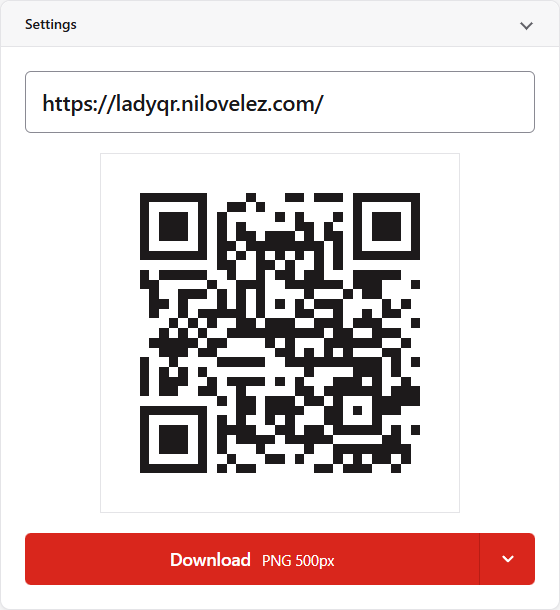
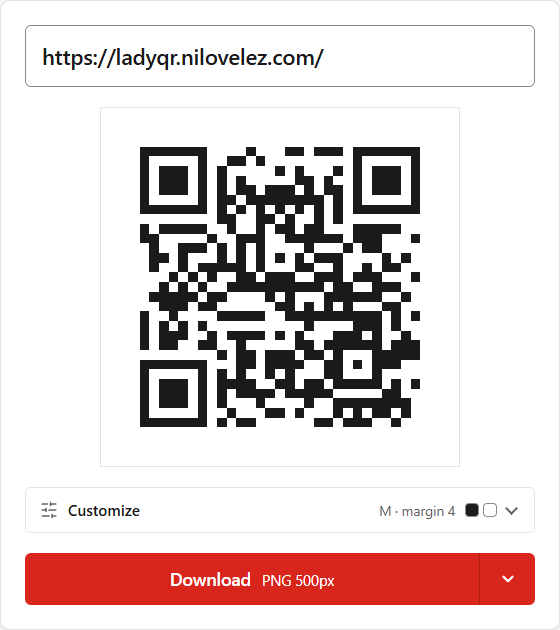
Bring the website, the README and the status up to date with M7
The website's roadmap, install steps and editor screenshot match 1.0.0
and the new M7; the README's roadmap names M7. Status updated in Guppy.

diff --git a/site/index.html b/site/index.html
@@ -66,7 +66,7 @@
 			</li>
 			<li>
 				<h3>Small and dependency-free</h3>
-				<p>It has its own QR encoder, with no libraries and no build step. PHP only generates the page, so it runs on the cheapest shared hosting.</p>
+				<p>It has its own QR encoder, with no libraries and no build step. PHP only generates the page and answers the short links, so it runs on the cheapest shared hosting.</p>
 			</li>
 			<li>
 				<h3>Accessible and translatable</h3>
@@ -77,9 +77,9 @@
 
 	<section class="shots" aria-labelledby="shots-title">
 		<h2 id="shots-title">One screen, one job</h2>
-		<p>A text field, the QR code and a download button. Everything else is one click away in the settings.</p>
+		<p>A text field, the QR code and a download button. Everything else is one click away under Customize.</p>
 		<figure>
-			<img src="img/editor.png" alt="The LadyQR editor: a collapsed Settings bar, a text field containing a web address, the QR code for it, and a large red Download button." width="560" height="610">
+			<img src="img/editor.png" alt="The LadyQR editor: a text field containing a web address, the QR code for it, a collapsed Customize box showing the current settings, and a large red Download button." width="560" height="630">
 		</figure>
 	</section>
 
@@ -100,9 +100,9 @@ connect-src 'none'; base-uri 'none'; form-action 'none'</code></pre>
 		<h2>Run your own</h2>
 		<p>LadyQR is a handful of files. It needs a web server that can run PHP (Apache is the target) and nothing else, not even a database.</p>
 		<ol class="steps">
-			<li><a href="https://github.com/nilovelez/ladyqr">Download the repository</a> or clone it.</li>
-			<li>Upload it to the root of your site.</li>
-			<li>Optionally, copy <code>ladyqr-config.sample.php</code> to <code>ladyqr-config.php</code> and set the interface language.</li>
+			<li><a href="https://github.com/nilovelez/ladyqr/releases/latest/download/ladyqr-latest.zip">Download the latest release</a>, a zip ready to upload.</li>
+			<li>Unzip it and upload the files to your site, for example by FTP.</li>
+			<li>Open your site. A short installer asks for the language and whether you want the link shortener, and sets everything up.</li>
 		</ol>
 		<p>The <a href="https://github.com/nilovelez/ladyqr#readme">README</a> has the details, and <a href="https://github.com/nilovelez/ladyqr/blob/main/DESIGN.md">DESIGN.md</a> explains how it looks and why.</p>
 	</section>
@@ -111,8 +111,8 @@ connect-src 'none'; base-uri 'none'; form-action 'none'</code></pre>
 		<h2>Where it is going</h2>
 		<ul class="roadmap">
 			<li class="done"><strong>Done:</strong> the QR code generator, with PNG and SVG, settings, warnings and translations. It runs on a free 100 MB shared hosting plan, at <a href="https://1qr.es/">1qr.es</a>.</li>
-			<li><strong>Built, being polished:</strong> a private, single-user admin, and a URL shortener that writes its redirects into <code>.htaccess</code> so Apache serves them without running PHP.</li>
-			<li><strong>Later:</strong> installation guide and a release you can upload by FTP.</li>
+			<li class="done"><strong>Done in 1.0.0:</strong> an optional link shortener with a private, single-user admin, a web installer, and a release zip you can upload by FTP.</li>
+			<li><strong>Next:</strong> automated tests, smaller codes with the encoder's numeric and alphanumeric modes, and a QR code for each short link, straight from the admin.</li>
 		</ul>
 		<p>The full plan is in <a href="https://github.com/nilovelez/ladyqr/blob/main/docs/PLAN.md">docs/PLAN.md</a>.</p>
 	</section>

diff --git a/guppy/STATUS.md b/guppy/STATUS.md
@@ -1,11 +1,12 @@
 # Status
 
-LadyQR is a privacy-oriented QR code generator with an optional link shortener. Milestones 0 to 6 are done and 1.0.0, the first release, is published on GitHub: a zip with the generator, the admin, short links served by PHP from ladyqr-data.php (case-insensitive), and a four-screen web installer, plus INSTALL.txt and a README with Troubleshooting. Its zip, ladyqr-latest.zip, is attached to the release and always reachable at https://github.com/nilovelez/ladyqr/releases/latest/download/ladyqr-latest.zip. Nilo runs it on https://1qr.es/, the website and demo are at https://ladyqr.nilovelez.com/. Next is M7: automated tests and the encoder's numeric and alphanumeric modes. `CLAUDE.md` and `docs/HANDOFF.md` hold what a new session needs; the roadmap is in `docs/PLAN.md`.
+LadyQR is a privacy-oriented QR code generator with an optional link shortener. Milestones 0 to 6 are done and 1.0.0, the first release, is published on GitHub: a zip with the generator, the admin, short links served by PHP from ladyqr-data.php (case-insensitive), and a four-screen web installer, plus INSTALL.txt and a README with Troubleshooting. Its zip, ladyqr-latest.zip, is attached to the release and always reachable at https://github.com/nilovelez/ladyqr/releases/latest/download/ladyqr-latest.zip. Nilo runs it on https://1qr.es/, the website and demo are at https://ladyqr.nilovelez.com/. Next is M7: automated tests, the encoder's numeric and alphanumeric modes (picked automatically), and QR codes from the shortener (an icon on each short link that opens the generator). The backlog only holds customizing the generator page. `CLAUDE.md` and `docs/HANDOFF.md` hold what a new session needs; the roadmap is in `docs/PLAN.md`.
 
 ## Log
 
 Newest entries first. One per work session, brief.
 
+- 2026-10-25: Roadmap cleanup. The QR codes from the shortener moved into M7 with the encoder modes; most of the backlog dropped. The website (roadmap, install steps, editor screenshot) and the README brought up to date; HANDOFF.md points to PLAN.md instead of repeating it. Next: M7.
 - 2026-10-25: Milestone 6 done, 1.0.0 published. New icons, short links that ignore case, README with Troubleshooting, configuration sample reviewed. The release zip is attached by the release workflow. Next: M7, automated tests and the alphanumeric mode.
 - 2026-10-25: Milestone 6 started. Release zip built by a GitHub Action (ladyqr-latest.zip), INSTALL.txt, and installer fixes after a first real install on 1qr.es: the site address also for the generator alone, the admin panel in the summary. Handoff notes in CLAUDE.md and docs/HANDOFF.md. Next: new icon, README, 1.0.0.
 - 2026-10-25: Milestone 5 done. A web installer (four screens, translatable, generator alone or with the shortener), short links served by PHP from ladyqr-data.php, the configuration as constants, and every visit sent to the installer until it is installed. Design revision: light only, gray buttons, the editor settings under the QR code. Nothing published to 1qr.es yet. Next: milestone 6, docs and the release zip.

diff --git a/README.md b/README.md
@@ -292,11 +292,11 @@ php tools/build-site.php
 php tools/build-release.php
 ```
 
-**How the encoder was verified.** The module matrix is identical to the one made by an independent implementation, the `qrcode` package on npm, for 328 inputs that cover all 40 versions at the four error correction levels (with the same version and mask, in byte mode). The codes decode back to the original text with the jsQR decoder in 346 of 348 cases, and the two it cannot read fail in the same way on the reference implementation's own symbol. In a real Chrome, the 500 px PNG, the 1000 px PNG and the SVG that the editor downloads also decode to the exact text, with accents and emoji. It has been tested in Chrome only; Firefox and Safari have not been tested yet. Automated tests are planned for a later milestone.
+**How the encoder was verified.** The module matrix is identical to the one made by an independent implementation, the `qrcode` package on npm, for 328 inputs that cover all 40 versions at the four error correction levels (with the same version and mask, in byte mode). The codes decode back to the original text with the jsQR decoder in 346 of 348 cases, and the two it cannot read fail in the same way on the reference implementation's own symbol. In a real Chrome, the 500 px PNG, the 1000 px PNG and the SVG that the editor downloads also decode to the exact text, with accents and emoji. It has been tested in Chrome only; Firefox and Safari have not been tested yet. Automated tests come in the next milestone, M7.
 
 ## Roadmap
 
-See [docs/PLAN.md](docs/PLAN.md). Next come automated tests and the encoder's numeric and alphanumeric modes, and then QR codes made straight from the shortener's links.
+See [docs/PLAN.md](docs/PLAN.md). Next comes M7: automated tests, the encoder's numeric and alphanumeric modes, and QR codes made straight from the shortener's links.
 
 ## License
 
